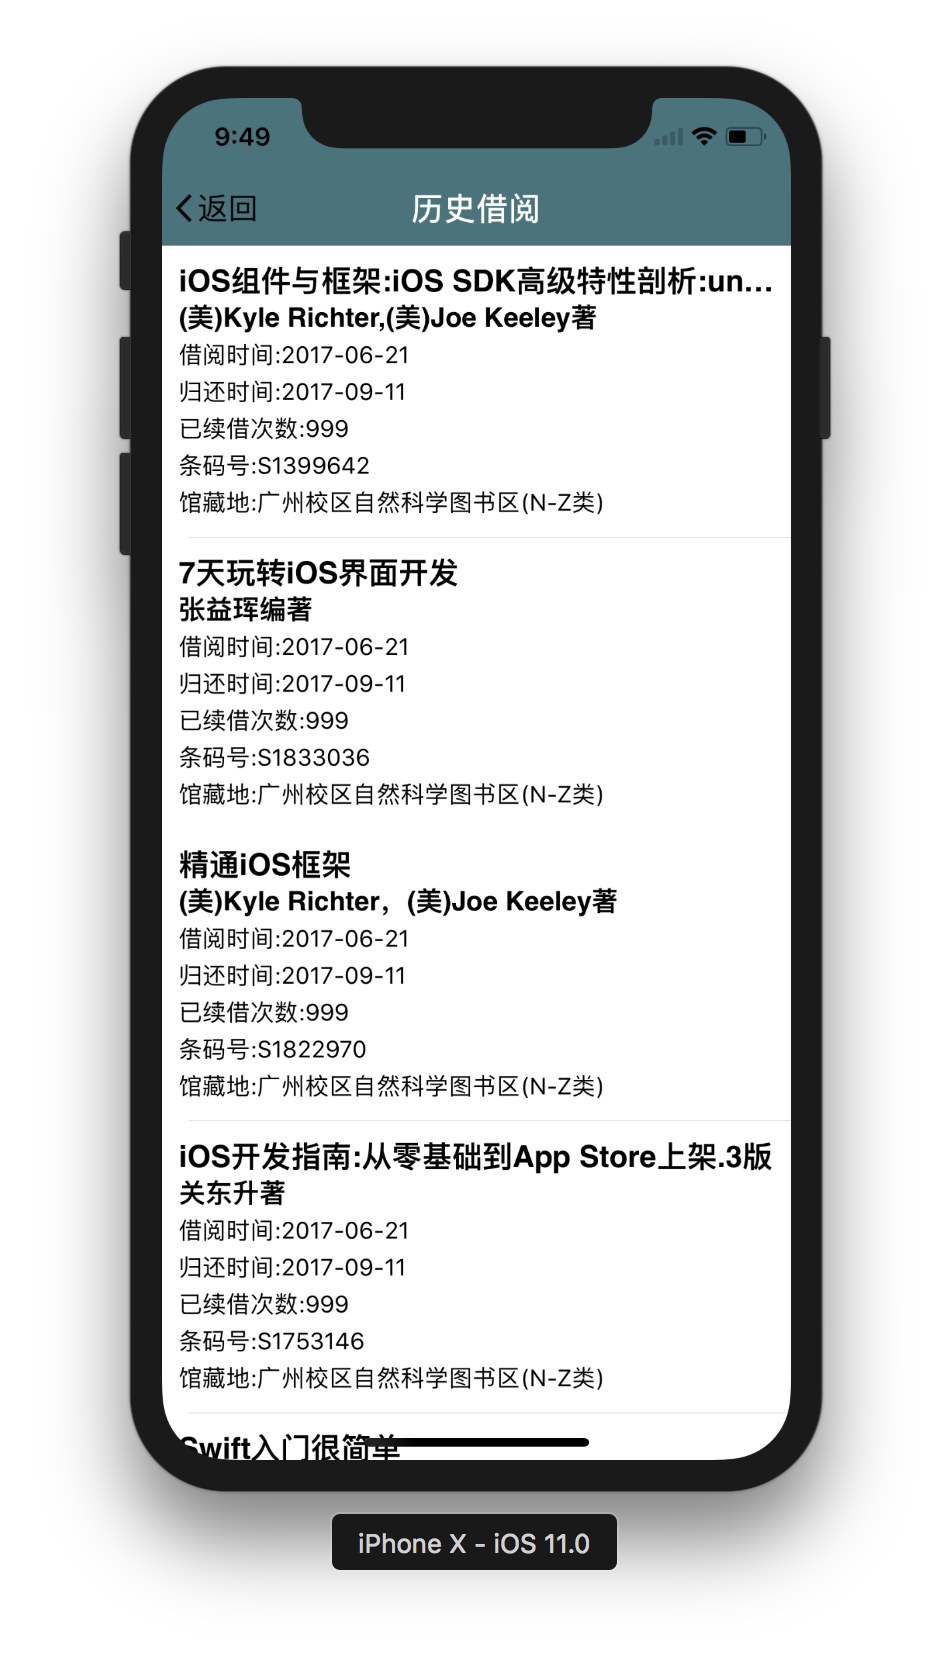
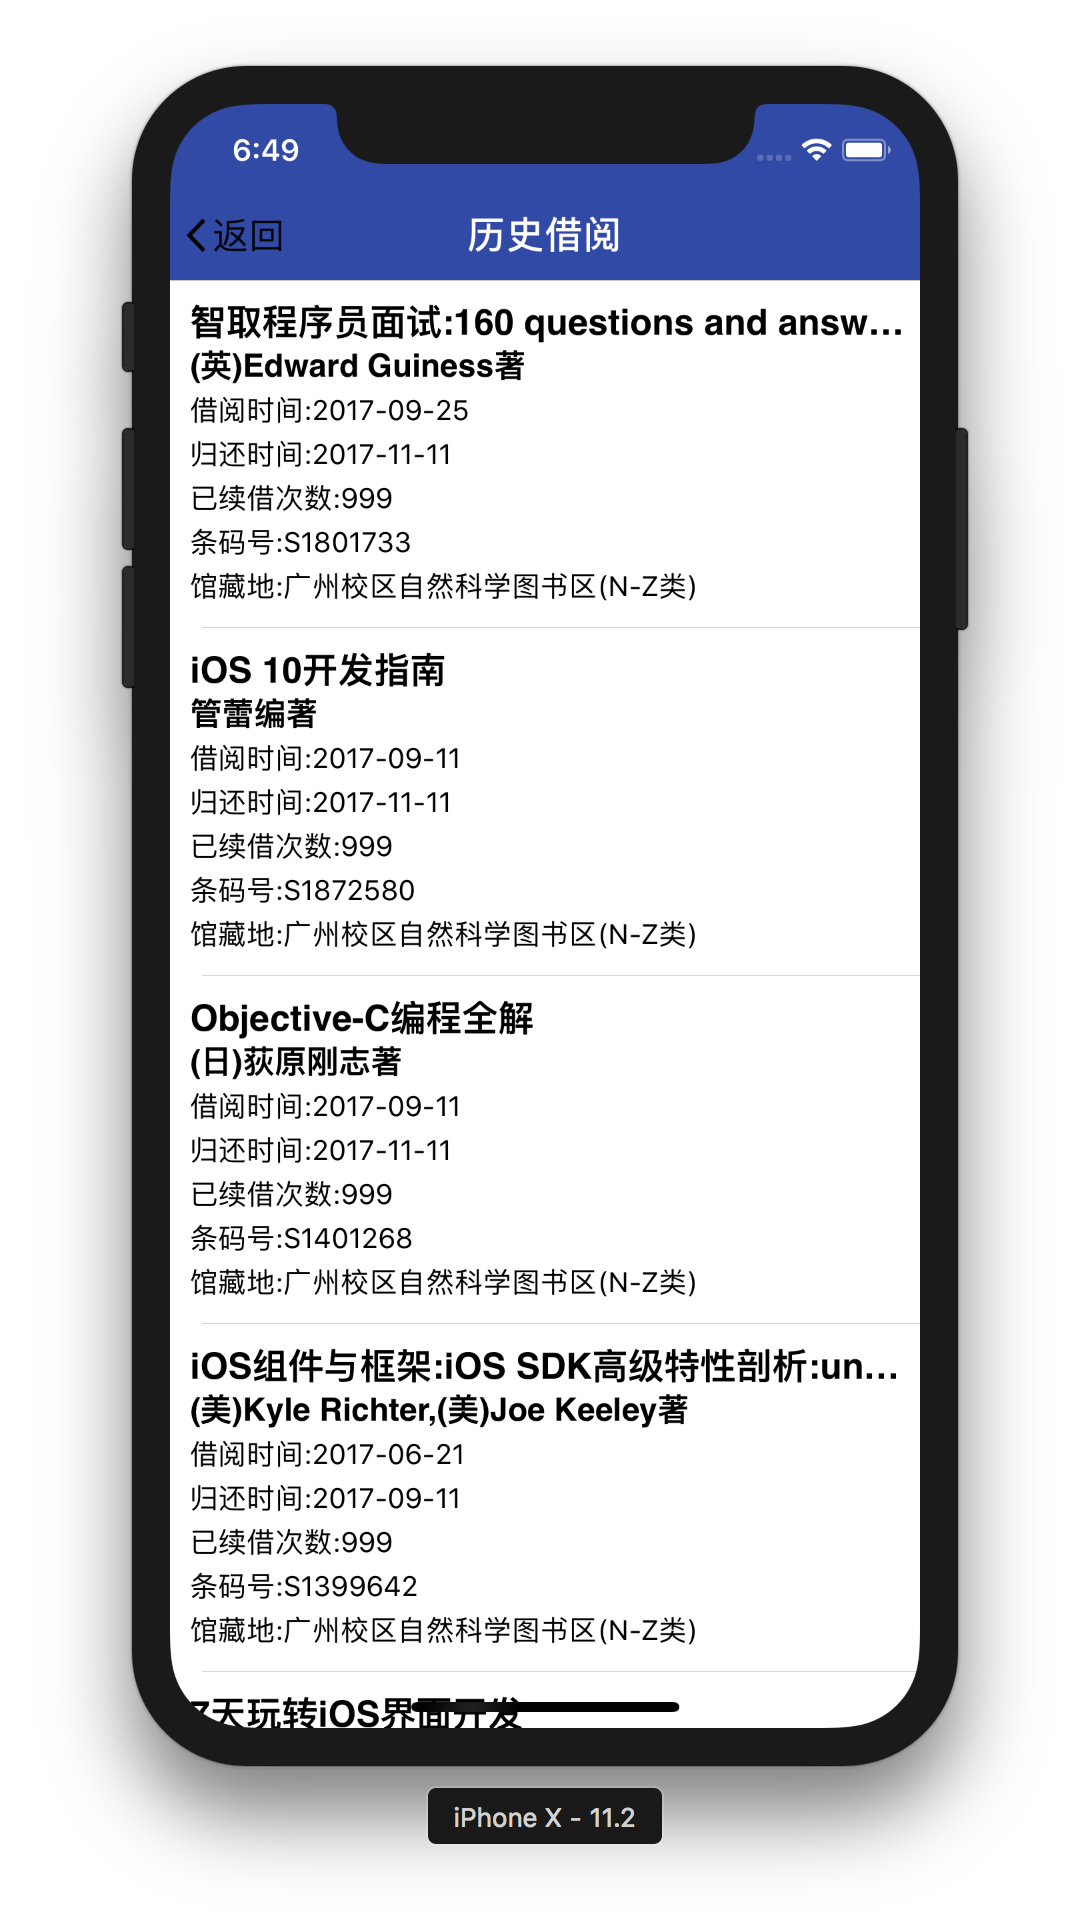
1.8.1

Changed region(s): [[0.0914, 0.0308, 0.9139, 0.9559]]

diff --git a/KWGdufe/Classes/Functions/Control/KWSearchBookView.m b/KWGdufe/Classes/Functions/Control/KWSearchBookView.m
@@ -36,13 +36,24 @@
     UISearchBar *searchBar = [[UISearchBar alloc]init];
     searchBar.showsCancelButton = YES;
     searchBar.delegate = self;
+    for (id obj in [searchBar subviews]) {
+        if ([obj isKindOfClass:[UIView class]]) {
+            for (id obj2 in [obj subviews]) {
+                if ([obj2 isKindOfClass:[UIButton class]]) {
+                    UIButton *btn = (UIButton *)obj2;
+                    [btn setTitle:@"取消" forState:UIControlStateNormal];
+                    [btn setTitleColor:[UIColor blackColor] forState:UIControlStateNormal];
+                }
+            }
+        }
+    }
     [header addSubview:searchBar];
     [searchBar mas_makeConstraints:^(MASConstraintMaker *make) {
         make.left.equalTo(header.mas_left);
         make.right.equalTo(header.mas_right);
         make.top.equalTo(header.mas_top);
     }];
-    dispatch_after(dispatch_time(DISPATCH_TIME_NOW, (int64_t)(0.5 * NSEC_PER_SEC)), dispatch_get_main_queue(), ^{
+    dispatch_after(dispatch_time(DISPATCH_TIME_NOW, (int64_t)(0.3 * NSEC_PER_SEC)), dispatch_get_main_queue(), ^{
         [searchBar becomeFirstResponder];//延迟2秒弹出键盘
     });
 }
@@ -64,31 +75,6 @@
     NSMutableDictionary *parements = [NSMutableDictionary dictionary];
     parements[@"bookName"] = bookName;
     
-//    [KWAFNetworking postWithUrlString:@"http://api.wegdufe.com:82/index.php?r=opac/search-book" parameters:parements success:^(id data) {
-//        NSLog(@"data = %@",data);
-//        //获取字典
-//        NSDictionary *searchBookDict = data[@"data"];
-//        NSString *code = [data objectForKey:@"code"];
-//        NSString *codeStr = [NSString stringWithFormat:@"%@",code];
-//
-//        //缓存到本地
-////        [Utils saveCache:gdufeAccount andID:_modelSaveName andValue:currentBookDict];
-//
-//        if ([codeStr isEqualToString:@"0"]) {
-//            //字典转模型
-//            NSArray *searchBookModel = [KWSearchBookModel mj_objectArrayWithKeyValuesArray:searchBookDict];
-//            _searchBookModel = searchBookModel;
-//            [self.tableView reloadData];
-//            [SVProgressHUD dismiss];
-//        } else if ([codeStr isEqualToString:@"2003"]) {
-//            NSLog(@"喵～馆藏查询系统崩啦～～");
-//            //添加提示框
-//            [SVProgressHUD dismiss];
-//            [self showDismissWithTitle:@"喵～馆藏查询系统崩啦～～" message:nil parent:self];
-//        }
-//    } failure:^(NSError *error) {
-//
-//    }];
     [KWAFNetworking postWithUrlString:@"http://api.wegdufe.com:82/index.php?r=opac/search-book" vController:self parameters:parements success:^(id data) {
         NSLog(@"data = %@",data);
         //获取字典

diff --git a/KWGdufe/Classes/Main/Control/KWNavigationViewController.m b/KWGdufe/Classes/Main/Control/KWNavigationViewController.m
@@ -42,20 +42,15 @@
     pan.delegate = self;
     //禁止之前的手势
     self.interactivePopGestureRecognizer.enabled = NO;
-    
     self.navigationController.navigationBar.barStyle = UIBarStyleBlack;
-
 }
 
 - (void)pushViewController:(UIViewController *)viewController animated:(BOOL)animated
 {
-    
     //统一设置返回按钮，只有非根控制器
     if(self.childViewControllers.count > 0){//如果大于0，就是非根控制器。第一次meVc加进来是0
-        
         viewController.hidesBottomBarWhenPushed = YES;//隐藏底部tabBar
-        
-        viewController.navigationItem.leftBarButtonItem = [UIBarButtonItem backItemWithImage:[UIImage imageNamed:@"navigationButtonReturn"] hightImage:[UIImage imageNamed:@"navigationButtonReturn"] target:self action:@selector(back) title:@"返回"];
+        viewController.navigationItem.leftBarButtonItem = [UIBarButtonItem backItemWithImage:[UIImage imageNamed:@"navigationButtonReturn"] hightImage:[UIImage imageNamed:@"navigationButtonReturnClick"] target:self action:@selector(back) title:@"返回"];
     }
     
     //真正在跳转

diff --git a/Pods/SVProgressHUD/SVProgressHUD/SVProgressHUD.m b/Pods/SVProgressHUD/SVProgressHUD/SVProgressHUD.m
@@ -1329,10 +1329,17 @@ static const CGFloat SVProgressHUDLabelSpacing = 8.0f;
 #if !defined(SV_APP_EXTENSIONS)
     UIWindow *keyboardWindow = nil;
     for (UIWindow *testWindow in [[UIApplication sharedApplication] windows]) {
+        #ifdef __IPHONE_11_2
+        if([[testWindow class] isEqual:NSClassFromString(@"UIRemoteKeyboardWindow")]) {
+            keyboardWindow = testWindow;
+            break;
+        }
+        #else
         if(![[testWindow class] isEqual:[UIWindow class]]) {
             keyboardWindow = testWindow;
             break;
         }
+        #endif
     }
     
     for (__strong UIView *possibleKeyboard in [keyboardWindow subviews]) {

diff --git a/KWGdufe/Classes/Other/Category/UIBarButtonItem+KWBarButtonItem.m b/KWGdufe/Classes/Other/Category/UIBarButtonItem+KWBarButtonItem.m
@@ -69,7 +69,7 @@
     [backButton setTitle:title forState:UIControlStateNormal];
     [backButton setImage:image forState:UIControlStateNormal];
     [backButton setImage:hightImage forState:UIControlStateHighlighted];
-    [backButton setTitleColor:[UIColor blackColor] forState:UIControlStateNormal];//未选中的颜色
+    [backButton setTitleColor:[UIColor whiteColor] forState:UIControlStateNormal];//未选中的颜色
     [backButton setTitleColor:[UIColor blackColor] forState:UIControlStateHighlighted];//返回的选中title的颜色
     [backButton addTarget:target action:action forControlEvents:UIControlEventTouchUpInside];
     [backButton sizeToFit];

diff --git a/KWGdufe/Classes/MyClass/View/KWMyClassCollectionCell.m b/KWGdufe/Classes/MyClass/View/KWMyClassCollectionCell.m
@@ -16,7 +16,7 @@
     if(self=[super initWithFrame:frame]){
 //        self.view = [[UIView alloc] initWithFrame:CGRectMake(0.5, 0.5, CGRectGetWidth(frame)-1.5, CGRectGetHeight(frame)-1.5)];
         self.view = [[UIView alloc] init];
-//        _view.layer.cornerRadius = 4;
+        _view.layer.cornerRadius = 4;
 //        _view.layer.masksToBounds = YES;
         [self addSubview:_view];
         [_view mas_makeConstraints:^(MASConstraintMaker *make) {

diff --git a/KWGdufe/Classes/Functions/Control/KWCurrentBookView.m b/KWGdufe/Classes/Functions/Control/KWCurrentBookView.m
@@ -131,11 +131,6 @@
     return cell;
 }
 
-- (void)tableView:(UITableView *)tableView didSelectRowAtIndexPath:(NSIndexPath *)indexPath {
-    KWSBookMostMsgView *sbVc = [[KWSBookMostMsgView alloc]init];
-    [self.navigationController pushViewController:sbVc animated:YES];
-}
-
 - (CGFloat)tableView:(UITableView *)tableView heightForRowAtIndexPath:(NSIndexPath *)indexPath {
     return 174;
 }

diff --git a/KWGdufe/Classes/Login/Control/KWLoginTableViewController.m b/KWGdufe/Classes/Login/Control/KWLoginTableViewController.m
@@ -170,5 +170,4 @@
     }];
 }
 
-- 
 @end
